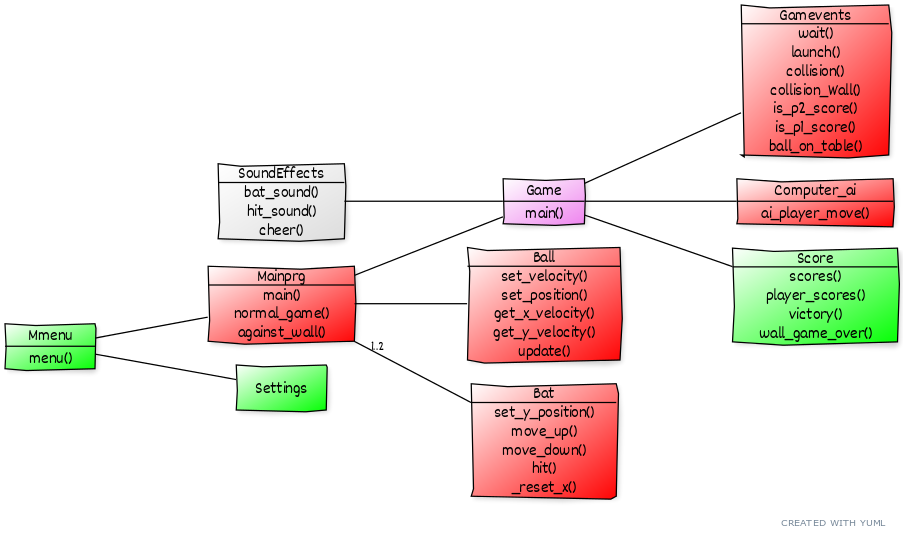
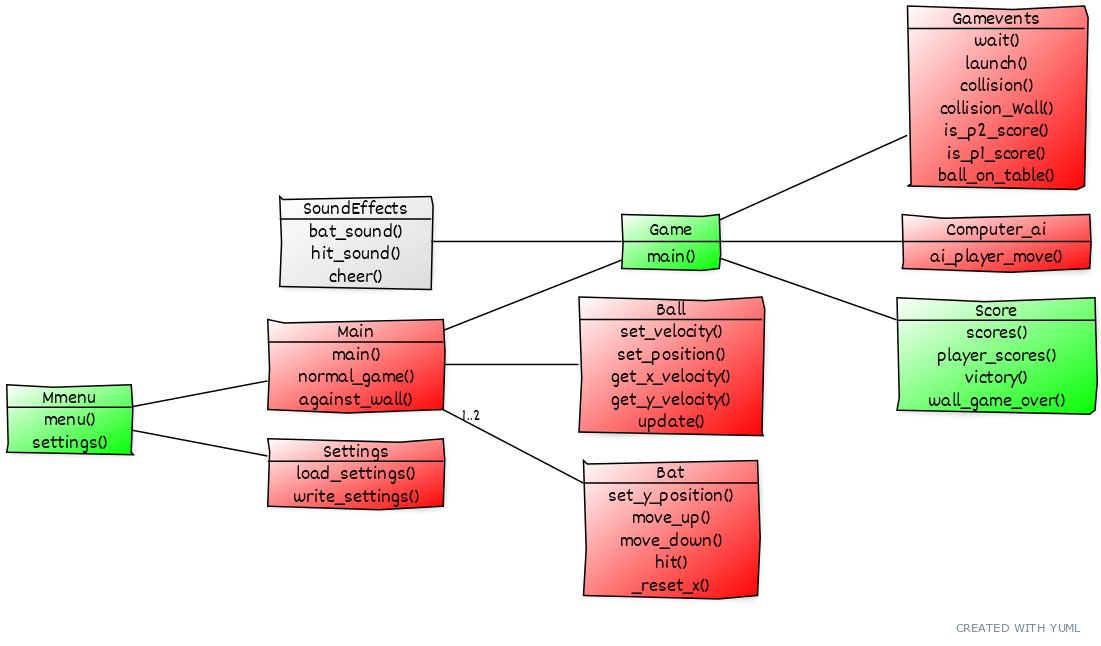
Moved game.py into ui. Updated class diagram

diff --git a/src/tests/gamevents_test.py b/src/tests/gamevents_test.py
@@ -45,9 +45,9 @@ class TestGamevents(unittest.TestCase):
         
     def test_tietokone_voittaa_pelin(self):
         self.ball.rect.x = -44
-        run, score = self.gamevents.is_p2_score(self.ball, 2, self.score, True, 3, None)
+        run, score = self.gamevents.is_p2_score(self.ball, 4, self.score, True, 3, None)
         self.assertEqual(run, False)
-        self.assertEqual(score, 3)
+        self.assertEqual(score, 5)
         
     def test_pallo_kimpoaa_mailasta_against_wall(self):
         self.ball.rect.x = 28

diff --git a/src/main.py b/src/main.py
@@ -5,7 +5,7 @@ import pygame
 
 from bat import Bat
 from ball import Ball
-from game import Game
+from ui.game import Game
 from settings import Settings
 from ui.mmenu import Mmenu
 
